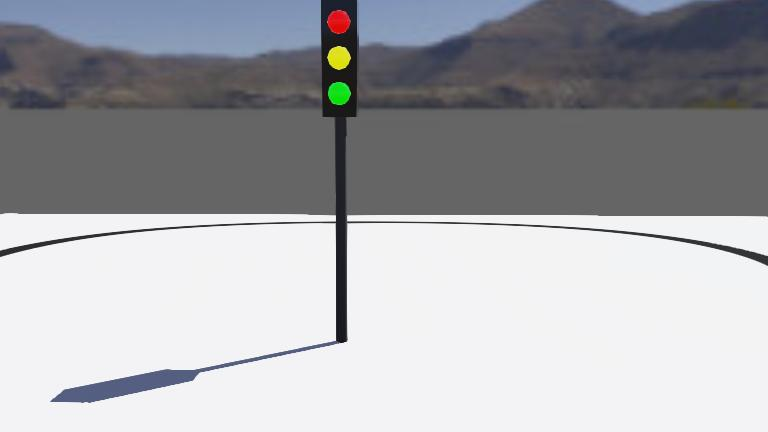
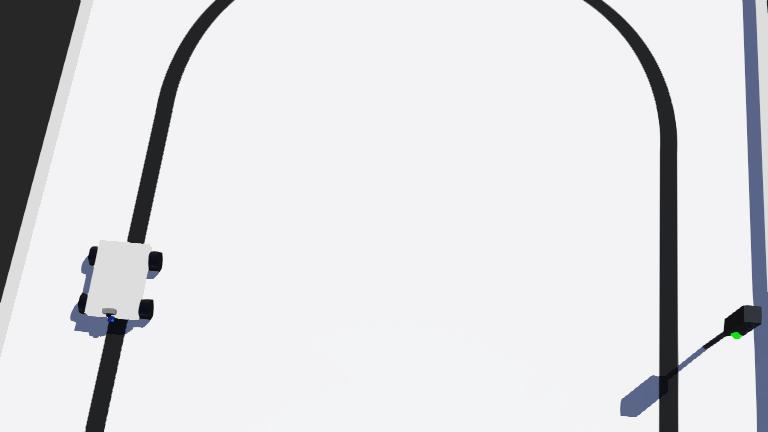
Color Detection

diff --git a/controllers/explorer_brain/explorer_brain.py b/controllers/explorer_brain/explorer_brain.py
@@ -43,32 +43,17 @@ cameraMain.enable(timestep)
 cameraWidth = cameraMain.getWidth()
 cameraHeight = cameraMain.getHeight()
 
-baseSpeed = 4.0
+baseSpeed = 10.0
 
 # ---------------------------------------------------------------------------
 # ANALYTICAL IPM CALIBRATION (Option C)
 # ---------------------------------------------------------------------------
-# Fill these in from your Webots model - no manual pixel-clicking needed.
-
-# Physical height of the camera above the ground plane, in METERS.
-# Read this from the camera Transform's translation field in your .wbt /
-# proto (its Y or Z coordinate, depending on your world's up-axis),
-# possibly summed with the robot base's own height off the floor.
-CAMERA_HEIGHT_M = 0.05  # <-- REPLACE with your real value
-
-# Camera pitch relative to horizontal, in radians. 0.0 for the level
-# ("not_rotate") mounting you're using now.
+CAMERA_HEIGHT_M = 0.05
 CAMERA_PITCH_RAD = 0
+Z_NEAR_M = 0.08
+Z_FAR_M = 0.30
+HALF_WIDTH_M = 0.12
 
-# The real-world rectangle on the ground, directly ahead of the robot,
-# that you want to "unwarp" into a rectangle. Tune these to taste:
-#   Z_NEAR_M / Z_FAR_M -> how close / how far ahead to look (meters)
-#   HALF_WIDTH_M       -> half-width of the corridor to capture (meters)
-Z_NEAR_M = 0.08                 # <-- tune
-Z_FAR_M = 0.30                  # <-- tune
-HALF_WIDTH_M = 0.12             # <-- tune
-
-# --- Intrinsics from Webots FOV (no change needed) ---
 hFov = cameraMain.getFov()
 vFov = 2 * np.arctan(np.tan(hFov / 2) * (cameraHeight / cameraWidth))
 fx = (cameraWidth / 2) / np.tan(hFov / 2)
@@ -77,52 +62,37 @@ cx, cy = cameraWidth / 2, cameraHeight / 2
 
 
 def project_ground_point(X, Z, height, pitch):
-    """
-    Project a ground-plane world point (lateral X, forward Z, both meters,
-    camera at given height/pitch) into pixel coordinates (u, v).
-    World frame: X right, Z forward, ground at Y=0, camera at (0, height, 0).
-    """
-    # vector from camera to point, expressed in the "un-tilted" camera axes
     x_c0 = X
     y_c0 = height
     z_c0 = Z
 
-    # apply pitch rotation about the camera's x-axis
     y_c = y_c0 * np.cos(pitch) - z_c0 * np.sin(pitch)
     z_c = y_c0 * np.sin(pitch) + z_c0 * np.cos(pitch)
     x_c = x_c0
 
     if z_c <= 1e-6:
-        return None  # behind the camera / at the horizon - not visible
+        return None
 
     u = fx * (x_c / z_c) + cx
     v = fy * (y_c / z_c) + cy
     return (u, v)
 
 
-# Corners of the chosen real-world rectangle, in the SAME order used
-# throughout (bottom-left, bottom-right, top-right, top-left) - "bottom"
-# = near, "top" = far, matching image row direction.
 worldCorners = [
-    (-HALF_WIDTH_M, Z_NEAR_M),  # bottom-left  (near, left)
-    (HALF_WIDTH_M, Z_NEAR_M),   # bottom-right (near, right)
-    (HALF_WIDTH_M, Z_FAR_M),    # top-right    (far, right)
-    (-HALF_WIDTH_M, Z_FAR_M),   # top-left     (far, left)
+    (-HALF_WIDTH_M, Z_NEAR_M),
+    (HALF_WIDTH_M, Z_NEAR_M),
+    (HALF_WIDTH_M, Z_FAR_M),
+    (-HALF_WIDTH_M, Z_FAR_M),
 ]
 
 ptsSrcList = []
 for (X, Z) in worldCorners:
     p = project_ground_point(X, Z, CAMERA_HEIGHT_M, CAMERA_PITCH_RAD)
     if p is None:
-        raise ValueError(
-            f"World point (X={X}, Z={Z}) projects behind/at the camera - "
-            f"reduce Z_FAR_M or check CAMERA_HEIGHT_M/CAMERA_PITCH_RAD."
-        )
+        raise ValueError("World point projects behind/at the camera.")
     ptsSrcList.append(p)
 
 ptsSrc = np.float32(ptsSrcList)
-print("Computed ptsSrc (analytical IPM):", ptsSrc)
-
 ptsDst = np.float32([
     [0, cameraHeight],
     [cameraWidth, cameraHeight],
@@ -131,6 +101,9 @@ ptsDst = np.float32([
 ])
 
 matrix = cv2.getPerspectiveTransform(ptsSrc, ptsDst)
+
+traffic_state = "GREEN"
+yellow_memory_timer = 0
 # ---------------------------------------------------------------------------
 
 # Main control loop
@@ -147,9 +120,36 @@ while robot.step(timestep) != -1:
     if imageRaw:
         imageArray = np.frombuffer(imageRaw, np.uint8).reshape((cameraHeight, cameraWidth, 4)).copy()
         gray = cv2.cvtColor(imageArray, cv2.COLOR_BGRA2GRAY)
+        
+        # Color Detection System (HSV)
+        bgr = cv2.cvtColor(imageArray, cv2.COLOR_BGRA2BGR)
+        hsv = cv2.cvtColor(bgr, cv2.COLOR_BGR2HSV)
+        
+        mask_red1 = cv2.inRange(hsv, np.array([0, 120, 70]), np.array([10, 255, 255]))
+        mask_red2 = cv2.inRange(hsv, np.array([170, 120, 70]), np.array([180, 255, 255]))
+        mask_red = cv2.bitwise_or(mask_red1, mask_red2)
+        
+        mask_yellow = cv2.inRange(hsv, np.array([15, 150, 150]), np.array([35, 255, 255]))
+        mask_green = cv2.inRange(hsv, np.array([40, 100, 100]), np.array([85, 255, 255]))
+        
+        pixels_red = cv2.countNonZero(mask_red)
+        pixels_yellow = cv2.countNonZero(mask_yellow)
+        pixels_green = cv2.countNonZero(mask_green)
+        
+        detection_threshold = 30
+        
+        # Update traffic state based on current vision
+        if pixels_red > detection_threshold:
+            traffic_state = "RED"
+        elif pixels_green > detection_threshold:
+            traffic_state = "GREEN"
+            yellow_memory_timer = 0
+        elif pixels_yellow > detection_threshold:
+            traffic_state = "YELLOW"
+            yellow_memory_timer = 70
 
-        warped = cv2.warpPerspective(gray, matrix, (cameraWidth, cameraHeight),
-                                      borderValue=255)
+        # Perspective Transform for Line Following
+        warped = cv2.warpPerspective(gray, matrix, (cameraWidth, cameraHeight), borderValue=255)
 
         cropTop = int(cameraHeight * 0.5)
         roi = warped[cropTop:cameraHeight, 0:cameraWidth]
@@ -170,14 +170,32 @@ while robot.step(timestep) != -1:
                 error = cx_pt - (cameraWidth / 2)
                 kp = 0.008
 
-                vy = baseSpeed * 1.2
+               # 1. Base logic for normal speed and steering
+                vy = baseSpeed * 0.7
                 omega = -error * kp
+                
+                # 2. Apply Traffic Light Logic (Overrides Base Speed)
+                if traffic_state == "RED":
+                    vy = 0.0
+                    omega = 0.0
+                    
+                elif traffic_state == "YELLOW":
+                    vy = baseSpeed * 0.3  # سرعت کند
+                    
+               
+                    if pixels_yellow <= detection_threshold:
+                        yellow_memory_timer -= 1
+                        
+                 
+                    if yellow_memory_timer <= 0:
+                        traffic_state = "GREEN"
                 
         cv2.imshow("OmniVisionBot Camera Feed", imageArray)
         cv2.imshow("Warped (Birds-Eye)", warped)
         cv2.imshow("Brain View (Focused ROI)", thresh)
         cv2.waitKey(1)
 
+    # Keyboard override (works regardless of traffic lights)
     if key == ord('W'):
         vy = baseSpeed
         omega = 0.0

diff --git a/controllers/traffic_controller/traffic_controller.py b/controllers/traffic_controller/traffic_controller.py
@@ -1,0 +1,64 @@
+from controller import Supervisor, Keyboard
+
+# Initialize Supervisor and timestep
+supervisor = Supervisor()
+timestep = int(supervisor.getBasicTimeStep())
+
+# Enable keyboard input
+kb = Keyboard()
+kb.enable(timestep)
+
+# Access materials via DEF names
+green_mat = supervisor.getFromDef("GreenMat")
+yellow_mat = supervisor.getFromDef("YellowMat")
+red_mat = supervisor.getFromDef("RedMat")
+
+# Extract color fields for each material
+green_base = green_mat.getField("baseColor")
+green_emissive = green_mat.getField("emissiveColor")
+
+yellow_base = yellow_mat.getField("baseColor")
+yellow_emissive = yellow_mat.getField("emissiveColor")
+
+red_base = red_mat.getField("baseColor")
+red_emissive = red_mat.getField("emissiveColor")
+
+# Helper function to toggle light colors
+def update_lights(r_on, y_on, g_on):
+    # Update red light
+    if r_on:
+        red_base.setSFColor([1.0, 0.0, 0.0])
+        red_emissive.setSFColor([1.0, 0.0, 0.0])
+    else:
+        red_base.setSFColor([0.1, 0.1, 0.1])
+        red_emissive.setSFColor([0.0, 0.0, 0.0])
+        
+    # Update yellow light
+    if y_on:
+        yellow_base.setSFColor([1.0, 1.0, 0.0])
+        yellow_emissive.setSFColor([1.0, 1.0, 0.0])
+    else:
+        yellow_base.setSFColor([0.1, 0.1, 0.1])
+        yellow_emissive.setSFColor([0.0, 0.0, 0.0])
+        
+    # Update green light
+    if g_on:
+        green_base.setSFColor([0.0, 1.0, 0.0])
+        green_emissive.setSFColor([0.0, 1.0, 0.0])
+    else:
+        green_base.setSFColor([0.1, 0.1, 0.1])
+        green_emissive.setSFColor([0.0, 0.0, 0.0])
+
+# Set default state: Green on
+update_lights(r_on=False, y_on=False, g_on=True)
+
+# Main control loop
+while supervisor.step(timestep) != -1:
+    key = kb.getKey()
+    
+    if key == ord('1'):
+        update_lights(r_on=False, y_on=False, g_on=True)
+    elif key == ord('2'):
+        update_lights(r_on=False, y_on=True, g_on=False)
+    elif key == ord('3'):
+        update_lights(r_on=True, y_on=False, g_on=False)
